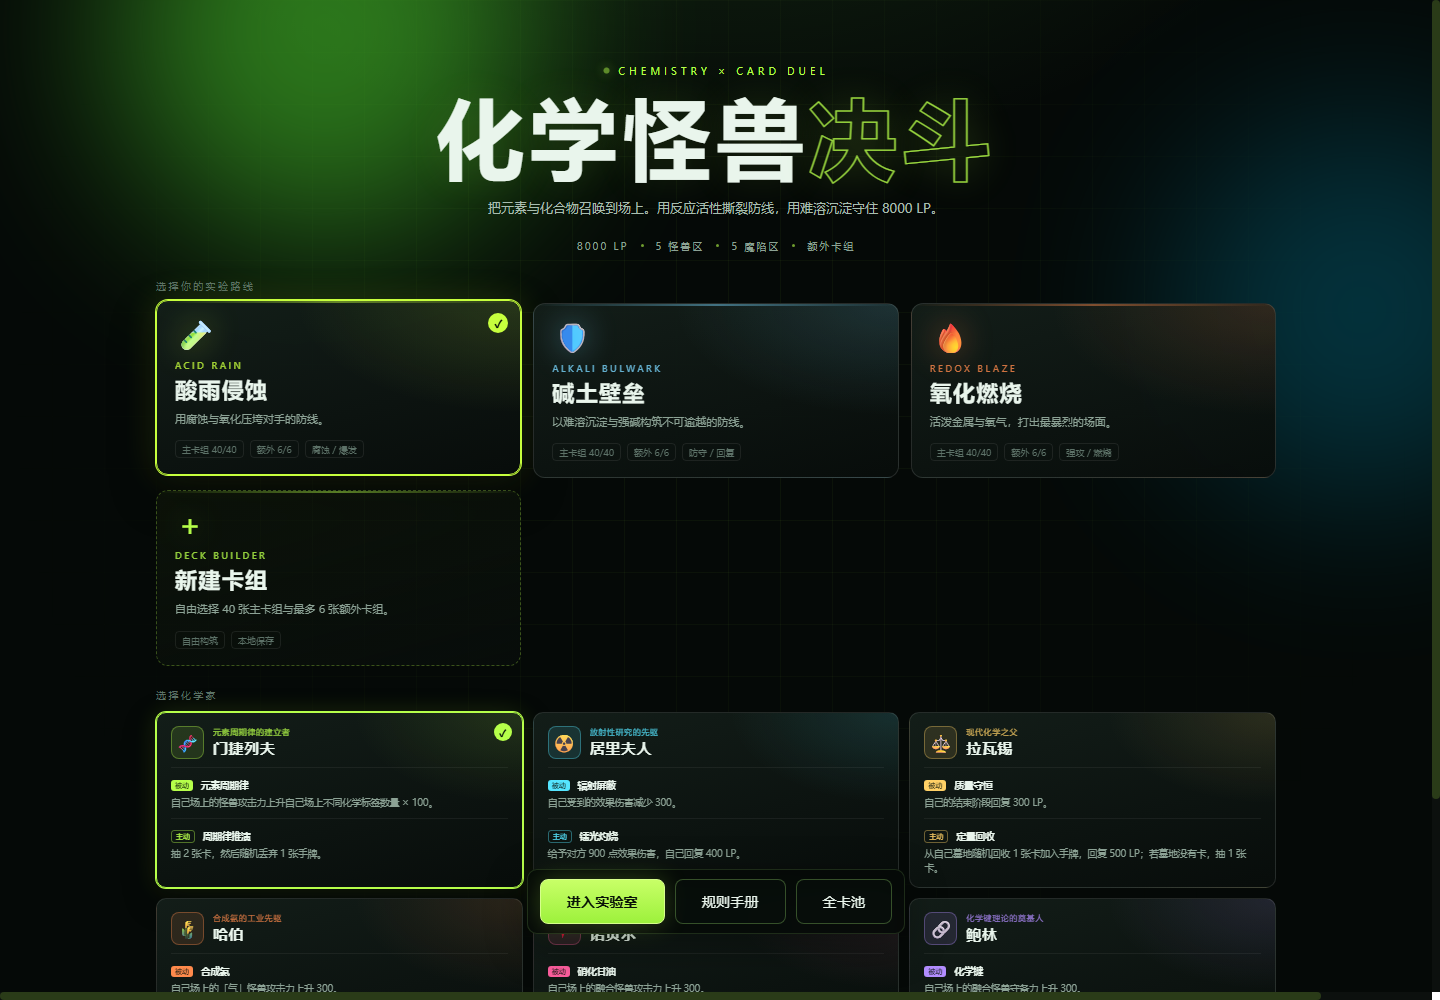
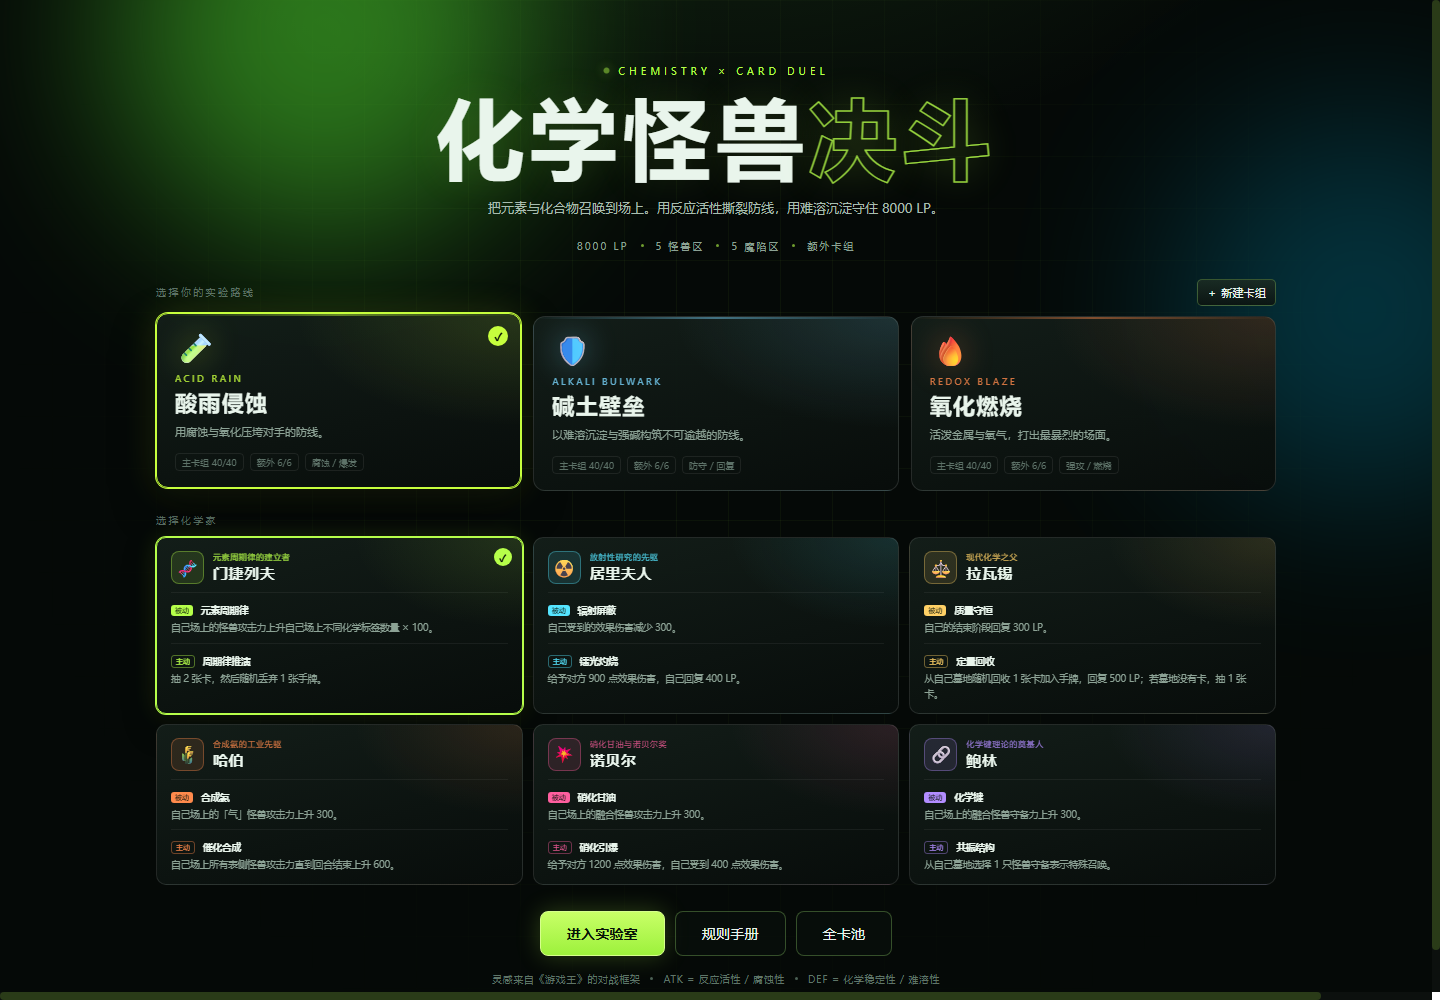
feat: finish free deck builder and start screen layout

diff --git a/css/style.css b/css/style.css
@@ -117,7 +117,7 @@ button, input, select { font-family: inherit; }
   display: flex;
   justify-content: center;
   align-items: flex-start;
-  padding: clamp(22px, 5vh, 48px) 24px 96px;
+  padding: clamp(22px, 5vh, 48px) 24px 50px;
 }
 .start-grid-bg {
   position: absolute;
@@ -182,6 +182,8 @@ button, input, select { font-family: inherit; }
   letter-spacing: 2px;
 }
 .start-stats i { width: 3px; height: 3px; border-radius: 50%; background: var(--lime); opacity: 0.6; }
+.section-label-row { display: flex; align-items: center; justify-content: space-between; gap: 10px; margin: 0 0 10px; }
+.section-label-row .section-label { margin: 0; }
 .section-label {
   text-align: left;
   margin: 0 0 10px;
@@ -239,7 +241,7 @@ button, input, select { font-family: inherit; }
   opacity: 0; transform: scale(0.6); transition: 0.16s;
 }
 .deck-card.selected .selected-mark { opacity: 1; transform: scale(1); }
-.start-actions { display: flex; justify-content: center; gap: 10px; flex-wrap: wrap; margin: 26px auto 16px; width: fit-content; position: sticky; bottom: 8px; z-index: 8; padding: 9px 12px; border: 1px solid var(--line); border-radius: 10px; background: rgba(5, 9, 7, 0.88); backdrop-filter: blur(12px); box-shadow: 0 12px 40px rgba(0,0,0,.35); }
+.start-actions { display: flex; justify-content: center; gap: 10px; flex-wrap: wrap; margin: 26px auto 16px; width: fit-content; }
 .start-foot {
   display: flex; justify-content: center; gap: 10px; flex-wrap: wrap;
   color: #5f7568; font-size: 10px; letter-spacing: 0.6px;

diff --git a/js/ui.js b/js/ui.js
@@ -279,13 +279,7 @@
           ${legal ? '' : '<span class="warn">未完成</span>'}
         </div>
       </article>`;
-    }).join('') + `<article class="deck-card new-deck-card" data-new-deck>
-      <div class="deck-icon">＋</div>
-      <div class="deck-sub">DECK BUILDER</div>
-      <h3>新建卡组</h3>
-      <p>自由选择 40 张主卡组与最多 6 张额外卡组。</p>
-      <div class="deck-composition"><span>自由构筑</span><span>本地保存</span></div>
-    </article>`;
+    }).join('');
 
     const cg = $('#chemist-grid');
     if (cg) {

diff --git a/index.html b/index.html
@@ -20,7 +20,10 @@
         <span>8000 LP</span><i></i><span>5 怪兽区</span><i></i><span>5 魔陷区</span><i></i><span>额外卡组</span>
       </div>
 
-      <div class="section-label">选择你的实验路线</div>
+      <div class="section-label-row">
+        <div class="section-label">选择你的实验路线</div>
+        <button class="btn btn-tiny" data-new-deck>＋ 新建卡组</button>
+      </div>
       <div id="deck-grid" class="deck-grid"></div>
 
       <div class="section-label" style="margin-top:22px">选择化学家</div>
